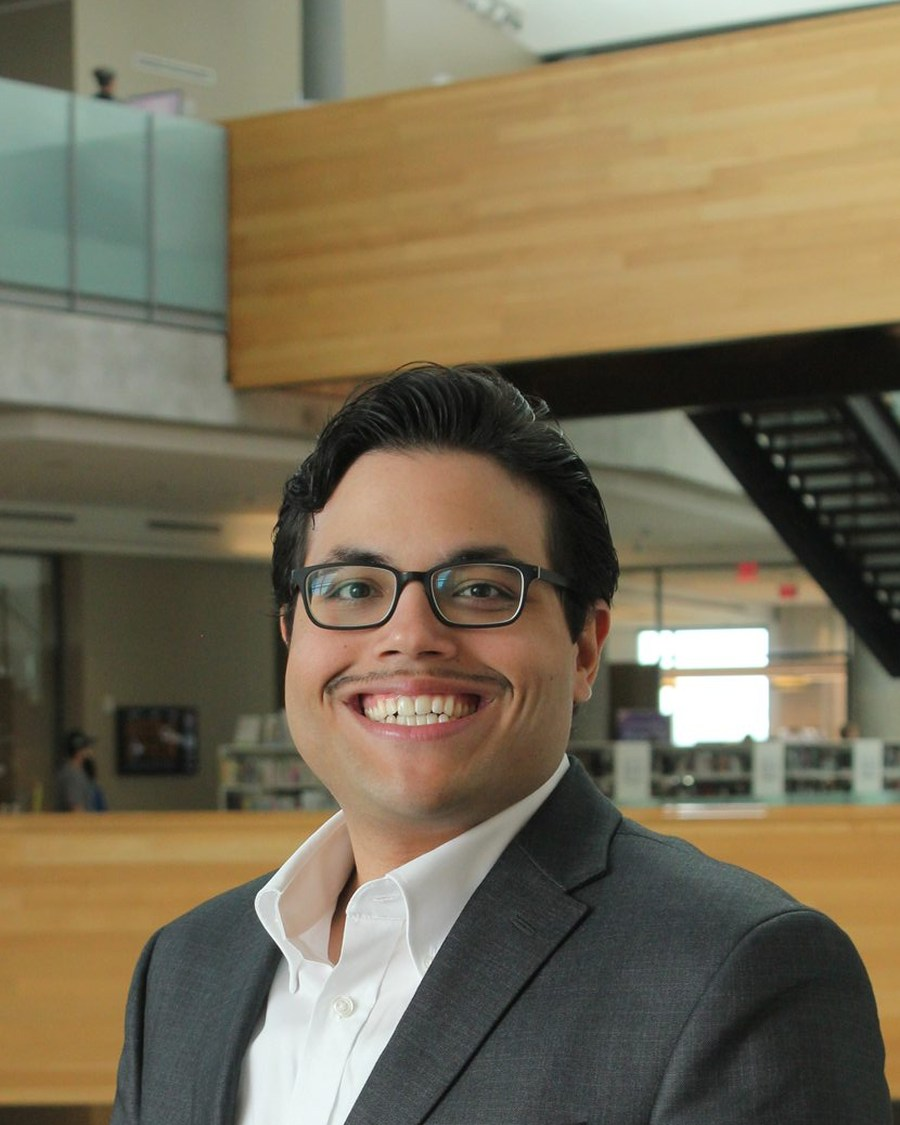
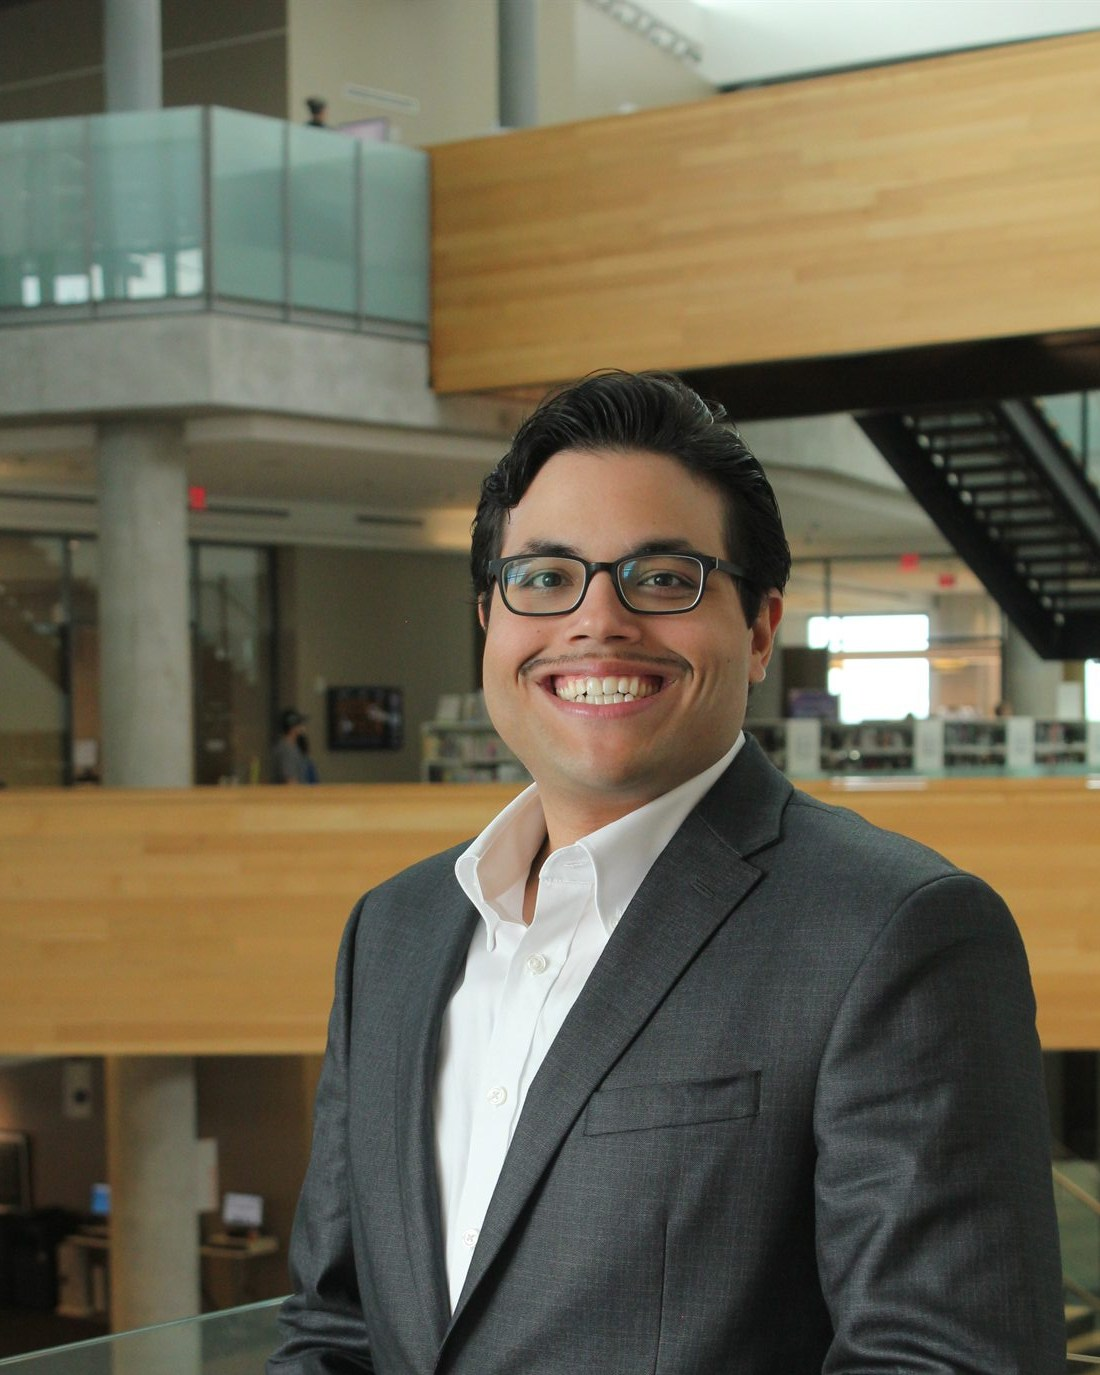
zoom out portrait and align contact

diff --git a/js/site.js b/js/site.js
@@ -86,7 +86,7 @@ function footer() {
           <div class="site-footer__col">
             <span class="site-footer__label">Contact</span>
             <a href="https://www.linkedin.com/in/brett-pascall/" target="_blank" rel="noopener">LinkedIn</a>
-            <a href="#/resume">Resume</a>
+            <a href="mailto:hello@brettpascall.com">hello@brettpascall.com</a>
           </div>
         </div>
       </div>
@@ -308,7 +308,7 @@ function contact() {
       <div class="contact__grid">
         <div>
           <h2>Find me where the work is already moving.</h2>
-          <p>LinkedIn for professional context, writing for the longer version, resume for the receipts.</p>
+          <p>LinkedIn for professional context. Email for anything specific enough to deserve a real reply.</p>
         </div>
         <div class="contact__list">
           <a href="https://www.linkedin.com/in/brett-pascall/" target="_blank" rel="noopener">
@@ -316,14 +316,9 @@ function contact() {
             <strong>in/brett-pascall</strong>
             ${externalIcon()}
           </a>
-          <a href="#/writing">
-            <span>Writing</span>
-            <strong>Essays and notes</strong>
-            ${externalIcon()}
-          </a>
-          <a href="#/resume">
-            <span>Resume</span>
-            <strong>Experience</strong>
+          <a href="mailto:hello@brettpascall.com">
+            <span>Email</span>
+            <strong>hello@brettpascall.com</strong>
             ${externalIcon()}
           </a>
         </div>
@@ -466,8 +461,8 @@ function resumePage() {
 
   const skills = [
     ["Customer Success", "Onboarding and activation, adoption, renewals, upsell and cross-sell, account health, voice of customer, lifecycle management"],
-    ["Tools", "Salesforce, HubSpot, Gainsight, Zendesk, Clari, Tableau, Metabase, Jira, LinkedIn Sales Navigator, Slack"],
-    ["AI / Technical", "LLM-powered products, RAG, LangChain, API-first SaaS, ChatGPT, Claude, Gemini"]
+    ["Tools", "Salesforce, HubSpot, Gainsight, Zendesk, Clari, Tableau, Metabase, Jira, LinkedIn Sales Navigator, Slack, VS Code"],
+    ["AI / Technical", "LLM-powered products, RAG, LangChain, API-first SaaS, ChatGPT, Claude, Gemini, Codex"]
   ];
 
   return `

diff --git a/public/js/site.js b/public/js/site.js
@@ -86,7 +86,7 @@ function footer() {
           <div class="site-footer__col">
             <span class="site-footer__label">Contact</span>
             <a href="https://www.linkedin.com/in/brett-pascall/" target="_blank" rel="noopener">LinkedIn</a>
-            <a href="#/resume">Resume</a>
+            <a href="mailto:hello@brettpascall.com">hello@brettpascall.com</a>
           </div>
         </div>
       </div>
@@ -308,7 +308,7 @@ function contact() {
       <div class="contact__grid">
         <div>
           <h2>Find me where the work is already moving.</h2>
-          <p>LinkedIn for professional context, writing for the longer version, resume for the receipts.</p>
+          <p>LinkedIn for professional context. Email for anything specific enough to deserve a real reply.</p>
         </div>
         <div class="contact__list">
           <a href="https://www.linkedin.com/in/brett-pascall/" target="_blank" rel="noopener">
@@ -316,14 +316,9 @@ function contact() {
             <strong>in/brett-pascall</strong>
             ${externalIcon()}
           </a>
-          <a href="#/writing">
-            <span>Writing</span>
-            <strong>Essays and notes</strong>
-            ${externalIcon()}
-          </a>
-          <a href="#/resume">
-            <span>Resume</span>
-            <strong>Experience</strong>
+          <a href="mailto:hello@brettpascall.com">
+            <span>Email</span>
+            <strong>hello@brettpascall.com</strong>
             ${externalIcon()}
           </a>
         </div>
@@ -466,8 +461,8 @@ function resumePage() {
 
   const skills = [
     ["Customer Success", "Onboarding and activation, adoption, renewals, upsell and cross-sell, account health, voice of customer, lifecycle management"],
-    ["Tools", "Salesforce, HubSpot, Gainsight, Zendesk, Clari, Tableau, Metabase, Jira, LinkedIn Sales Navigator, Slack"],
-    ["AI / Technical", "LLM-powered products, RAG, LangChain, API-first SaaS, ChatGPT, Claude, Gemini"]
+    ["Tools", "Salesforce, HubSpot, Gainsight, Zendesk, Clari, Tableau, Metabase, Jira, LinkedIn Sales Navigator, Slack, VS Code"],
+    ["AI / Technical", "LLM-powered products, RAG, LangChain, API-first SaaS, ChatGPT, Claude, Gemini, Codex"]
   ];
 
   return `

diff --git a/public/styles.css b/public/styles.css
@@ -972,7 +972,9 @@ em {
 
 .site-footer__col {
   display: grid;
+  grid-auto-rows: minmax(28px, auto);
   gap: 8px;
+  align-content: start;
 }
 
 .site-footer__label {
@@ -1301,7 +1303,7 @@ em {
 
 .portrait img {
   aspect-ratio: 4 / 5;
-  filter: saturate(0.72) contrast(1.04) brightness(0.82);
+  filter: saturate(0.74) contrast(1.04) brightness(0.84);
 }
 
 .portrait figcaption {
@@ -1727,7 +1729,7 @@ em {
 .contact__grid {
   grid-template-columns: minmax(0, 0.82fr) minmax(390px, 0.92fr);
   gap: 64px;
-  align-items: center;
+  align-items: start;
 }
 
 .contact__list {
@@ -1738,12 +1740,16 @@ em {
 }
 
 .contact__list a {
-  min-height: 68px;
+  min-height: 74px;
   grid-template-columns: 110px 1fr auto;
   background: rgba(255, 255, 255, 0.012);
   border-top: 0;
   border-bottom: 1px solid var(--line);
   padding: 0;
+}
+
+.contact__list a:first-child {
+  border-top: 0;
 }
 
 .contact__list a:hover,
@@ -1795,6 +1801,6 @@ em {
   }
 
   .portrait img {
-    aspect-ratio: 1 / 1.02;
+    aspect-ratio: 4 / 5;
   }
 }

diff --git a/styles.css b/styles.css
@@ -972,7 +972,9 @@ em {
 
 .site-footer__col {
   display: grid;
+  grid-auto-rows: minmax(28px, auto);
   gap: 8px;
+  align-content: start;
 }
 
 .site-footer__label {
@@ -1301,7 +1303,7 @@ em {
 
 .portrait img {
   aspect-ratio: 4 / 5;
-  filter: saturate(0.72) contrast(1.04) brightness(0.82);
+  filter: saturate(0.74) contrast(1.04) brightness(0.84);
 }
 
 .portrait figcaption {
@@ -1727,7 +1729,7 @@ em {
 .contact__grid {
   grid-template-columns: minmax(0, 0.82fr) minmax(390px, 0.92fr);
   gap: 64px;
-  align-items: center;
+  align-items: start;
 }
 
 .contact__list {
@@ -1738,12 +1740,16 @@ em {
 }
 
 .contact__list a {
-  min-height: 68px;
+  min-height: 74px;
   grid-template-columns: 110px 1fr auto;
   background: rgba(255, 255, 255, 0.012);
   border-top: 0;
   border-bottom: 1px solid var(--line);
   padding: 0;
+}
+
+.contact__list a:first-child {
+  border-top: 0;
 }
 
 .contact__list a:hover,
@@ -1795,6 +1801,6 @@ em {
   }
 
   .portrait img {
-    aspect-ratio: 1 / 1.02;
+    aspect-ratio: 4 / 5;
   }
 }
